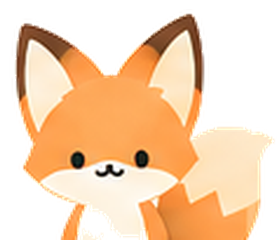
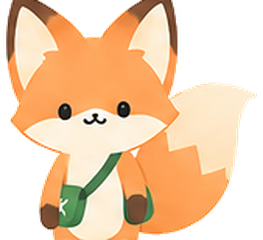
feat(ui): etend la mascotte Foxy (accueil, empty states) + planche v2
Nouvelle planche de reference consolidee (docs/brand/foxy_pose.png,
24 poses avec le sac K, comparee a un upscale x4 juge inutile a la
taille d'export utilisee) :

- Salut/accueil sur toutes les pages invite (login, mdp oublie/reset)
- Icone par defaut de .empty-state (boite vide) sur ~25 emplacements
  de l'app via un ::before CSS, sans toucher les vues existantes
- Variante cloche (.empty-state--bell) sur /notifications
- Re-export des poses 403/405/422/500/503/docs avec le sac, pour la
  coherence visuelle (404 reste sur l'ancienne planche, pose absente
  de la nouvelle)

mascot.md tient a jour l'inventaire complet (poses dispo non cablees,
et la pose "payslip" a corriger avant usage : texte japonais fige
dans le dessin).

Claude-Session: https://claude.ai/code/session_01HfwAgwAgeks5rZMgCdWDV8

diff --git a/public/assets/css/src/base.css b/public/assets/css/src/base.css
@@ -319,6 +319,13 @@ img {
     margin-bottom: var(--space-8);
 }
 
+.guest-brand__mascot {
+    display: block;
+    width: 96px;
+    height: auto;
+    margin: 0 auto var(--space-2);
+}
+
 .guest-brand h1 {
     font-size: 2rem;
     font-weight: 700;
@@ -377,6 +384,19 @@ img {
     text-align: center;
     color: var(--color-text-muted);
     font-size: var(--text-sm);
+}
+
+.empty-state::before {
+    content: '';
+    display: block;
+    width: 88px;
+    height: 88px;
+    margin: 0 auto var(--space-2);
+    background: url('../../img/mascot/box-empty.png') center / contain no-repeat;
+}
+
+.empty-state--bell::before {
+    background-image: url('../../img/mascot/bell.png');
 }
 
 .empty-state__icon {

diff --git a/src/UI/View/layout/guest.php b/src/UI/View/layout/guest.php
@@ -10,6 +10,7 @@
 <body class="guest-layout">
     <div class="guest-container">
         <div class="guest-brand">
+            <img src="<?= $BASE_URL ?>/assets/img/mascot/wave-hello.png" alt="<?= __('mascot_alt') ?>" class="guest-brand__mascot">
             <h1>Kintai</h1>
             <?php if (!empty($app_subtitle)): ?>
                 <p class="guest-brand__company"><?= htmlspecialchars($app_subtitle, ENT_QUOTES) ?></p>

diff --git a/src/UI/View/notifications/index.php b/src/UI/View/notifications/index.php
@@ -57,7 +57,7 @@ $typeIcons = [
 </div>
 
 <?php if (empty($notifications)): ?>
-    <div class="empty-state">
+    <div class="empty-state empty-state--bell">
         <p><?= __('no_notifications') ?></p>
     </div>
 <?php else: ?>

diff --git a/docs/brand/mascot.md b/docs/brand/mascot.md
@@ -1,76 +1,101 @@
 # Mascotte Foxy — inventaire des poses
 
 Ce document liste les poses de Foxy (la mascotte de Kintai) déjà intégrées à
-l'application, celles disponibles dans la planche de référence mais pas
-encore utilisées, et celles qu'il faudrait faire dessiner en plus. Il sert de
-référence pour la prochaine série d'intégrations.
+l'application, celles disponibles mais pas encore utilisées, et les
+éventuels manques restants.
 
-Planche de référence source : `docs/brand/foxy-style-guide.png` (ne pas
-utiliser directement dans l'app — c'est un document de travail, pas un
-asset). Chaque pose utilisée en est extraite, détourée (fond transparent) et
-exportée en PNG dans `public/assets/img/mascot/`, hauteur standard 240px.
+## Sources
 
-## 1. Poses déjà intégrées
+Deux planches de référence coexistent (documents de travail, à ne jamais
+utiliser directement dans l'app — chaque pose utilisée en est extraite,
+détourée et exportée en PNG dans `public/assets/img/mascot/`) :
 
-| Pose (planche) | Fichier exporté | Contexte d'usage | Pourquoi ce choix |
+- `docs/brand/foxy-style-guide.png` — planche d'origine (15 poses + 9
+  expressions seules, visage rond sans corps). Foxy n'y porte pas encore le
+  sac "K". C'est la **seule source** pour les 9 expressions seules.
+- `docs/brand/foxy_pose.png` — planche consolidée (24 poses, grille 6×4),
+  générée à partir des demandes de la section 3 de la v1 de ce document.
+  Foxy y porte systématiquement le petit sac banane vert "K", plus
+  cohérent visuellement. **Source à privilégier** pour toute pose qui y
+  figure — y compris pour ré-exporter une pose déjà utilisée depuis
+  l'ancienne planche, par cohérence visuelle.
+  - Un upscale ×4 de cette planche a été généré puis comparé à l'original :
+    qualité inégale (linework plus net sur certaines cases, mais formes
+    légèrement déformées sur d'autres, ex. l'oreille/la bandoulière de la
+    pose 16). Comme la taille d'export cible (240px de haut) est inférieure
+    à la résolution native de la planche, l'upscale n'apporte rien et a été
+    écarté — on découpe directement depuis `foxy_pose.png`.
+
+## 1. Poses intégrées
+
+| Pose | Source | Fichier exporté | Contexte d'usage |
 |---|---|---|---|
-| 考える (réfléchit, "?") | `error-404.png` | Page 404 | Il cherche la page, comme l'utilisateur |
-| びっくり (surpris, "!!") | `error-403.png` | Page 403 | Réaction d'alerte face à un accès refusé |
-| 待機・通常 (neutre) | `error-405.png` | Page 405 | Cas rare et neutre, pas besoin de dramatiser |
-| 振り返る (se retourne) | `error-422.png` | Page 422 | Invite à revérifier ce qui a été saisi |
-| がっかり (déçu) | `error-500.png` | Page 500 | Erreur serveur, on partage la déception |
-| 寝る (dort) | `error-503.png` | Page 503 (maintenance) | Le site "dort" pendant la maintenance |
-| スマホを見る (regarde son téléphone/l'app) | `docs-hero.png` | Sidebar wiki + page "wiki non cloné" (`/docs`) | Il consulte l'app, comme l'utilisateur qui lit la doc |
+| 考える (réfléchit, "?") | style-guide (v1) | `error-404.png` | Page 404 — absente de la planche consolidée, donc toujours issue de l'ancienne planche (sans le sac) |
+| びっくり (surpris, "!!") | foxy_pose #1 | `error-403.png` | Page 403 |
+| 待機・通常 (neutre) | foxy_pose #2 | `error-405.png` | Page 405 |
+| 振り返る (se retourne) | foxy_pose #3 | `error-422.png` | Page 422 |
+| がっかり (déçu) | foxy_pose #4 | `error-500.png` | Page 500 |
+| 寝る (dort) | foxy_pose #5 | `error-503.png` | Page 503 (maintenance) |
+| スマホを見る (regarde son téléphone) | foxy_pose #6 | `docs-hero.png` | Sidebar wiki + page "wiki non cloné" (`/docs`) |
+| Salut / accueil | foxy_pose #16 | `wave-hello.png` | Bandeau des pages invité (`layout/guest.php` : login, mot de passe oublié, réinitialisation) |
+| ボックス (空) | foxy_pose #18 | `box-empty.png` | Icône par défaut de **tout** `.empty-state` (CSS `::before`) — couvre ~25 emplacements dans l'app (dashboard, plannings, demandes, messages, rapports...) sans toucher aux vues |
+| 通知・ベル | foxy_pose #22 | `bell.png` | Variante `.empty-state--bell`, utilisée sur `/notifications` quand la liste est vide |
 
-## 2. Poses disponibles dans la planche, pas encore utilisées
+## 2. Poses disponibles, pas encore utilisées
 
-Pas besoin de nouveau dessin pour celles-ci — juste les découper/détourer
-avec le même script (crop + flood-fill transparence depuis les bords, cf.
-processus utilisé pour la série actuelle).
+Déjà découpées/dessinées, juste pas encore câblées quelque part.
 
-| Pose (planche) | Description | Contexte suggéré |
+| Pose (foxy_pose) | Description | Contexte suggéré |
 |---|---|---|
-| 歩く (marche) | Démarche tranquille, de profil | Étapes d'un assistant/wizard (ex. installeur `public/install.php`), indicateur de progression |
-| 座る (assis, neutre) | Assis, calme, regarde devant lui | État vide neutre générique (ex. `EmptyState` : aucune notification, aucun message) |
-| 走る (court) | Course, mouvement | Traitement en cours (import Excel, sauvegarde, synchronisation du wiki) |
-| ジャンプ (saute) | Saut joyeux | Confirmation de succès après une action (shift créé, congé approuvé) |
-| のび (s'étire) | Étirement, réveil | Accueil sur le dashboard ("Bonjour" du matin), reprise après une pause |
-| 座って休憩 (assis, repos) | Assis, détendu, pattes croisées | Statut "en congé" (bundle TimeOff), jour sans shift |
-| 応援する (encourage, drapeau K) | Debout, agite un petit drapeau vert avec le logo K | Fin de l'assistant d'installation, objectif/jalon atteint dans les stats |
-| 嬉しい (content, cœurs) | Assis, visage joyeux, petits cœurs autour | Écran de remerciement (bundle Feedback), échange de shift accepté |
-| 応援 走る (encourage en courant) | Court en brandissant le drapeau K | Mise à jour de l'app en cours, sauvegarde en cours (variante plus dynamique que "走る") |
+| #7 歩く | Marche, de profil | Étapes d'un assistant/wizard (installeur), indicateur de progression |
+| #8 座る | Assis, neutre | État vide alternatif si on veut varier `box-empty` |
+| #9 走る | Course | Traitement en cours (import Excel, sauvegarde, sync du wiki) |
+| #10 ジャンプ | Saut joyeux | Confirmation de succès après une action (shift créé, congé approuvé) |
+| #11 のび | Étirement | Accueil dashboard ("Bonjour" du matin) |
+| #12 座って休憩 | Assis, détendu | Statut "en congé" (bundle TimeOff) |
+| #13 応援する | Encourage, petit drapeau K | Fin d'assistant d'installation, jalon atteint |
+| #14 嬉しい | Content, cœurs | Écran de remerciement (bundle Feedback), échange de shift accepté |
+| #15 応援・走る | Encourage en courant | Mise à jour / sauvegarde en cours (variante dynamique de #9) |
+| #17 検索（空） | Regarde une barre de recherche vide | "Aucun résultat" sur une liste avec recherche/filtre — pas encore câblé faute d'un point d'accroche CSS générique équivalent à `.empty-state` pour ce cas précis |
+| #19 タイムカード・時計 | Tient une horloge de pointage | Bundle Timeclock (confirmation de pointage) |
+| #21 ツール・メンテナンス | Clé à molette + boîte à outils | Page de mise à jour admin (`system/update.php`) pendant une mise à jour |
+| #23 祝う・節目 | Confettis, sifflet de fête | Jalon célébré (mise à jour réussie, sauvegarde terminée) |
+| #24 疲れてるけど立ってる | Debout, un peu fatigué | Alerte douce sur charge de travail (proche du max de jours consécutifs) |
 
-Les 9 expressions seules (visage rond, sans corps — 通常/normal, にっこり/sourire,
+Les 9 expressions seules de l'ancienne planche (通常/normal, にっこり/sourire,
 ウインク/clin d'œil, びっくり/surpris, 困る/embêté, 照れる/gêné, 怒る/fâché,
-悲しい/triste, ???/perplexe) sont utilisables telles quelles pour des contextes
-compacts : petite icône à côté d'un message toast, d'une erreur de validation
-de formulaire, ou d'un badge de notification — pas besoin de tout le corps.
+悲しい/triste, ???/perplexe) restent disponibles pour des contextes compacts
+(icône à côté d'un toast, d'une erreur de validation de formulaire).
 
-## 3. Poses à faire dessiner (n'existent pas dans la planche actuelle)
+## 3. Point d'attention — pose à corriger avant usage
 
-| Pose proposée | Description visuelle | Contexte d'usage | Priorité |
-|---|---|---|---|
-| Salut / accueil | Debout, une patte levée en signe de salut, sourire | Page de connexion (`auth/login.php`), message de bienvenue sur le dashboard | Haute |
-| Recherche vide | Assis, tient une petite loupe, hausse les épaules | "Aucun résultat" dans les listes avec recherche/filtre (staff, shifts, journal d'activité) | Haute |
-| Boîte vide | Regarde dans une boîte/panier ouvert et vide | État vide neutre pour listes de données (aucun shift cette semaine, aucun message) — à distinguer de "がっかり" (déçu), qui reste réservé aux erreurs | Haute |
-| Pointeuse / horloge | Tient un badge ou une horloge de pointage | Confirmation de pointage (bundle Timeclock), écran de clock-in/out | Moyenne |
-| Enveloppe de paie | Tient une enveloppe ou une pièce | Pages liées à la paie (Salary Report, fiche de paie estimée) | Moyenne |
-| Outils / maintenance | Tient une clé à molette ou un tournevis | Page de mise à jour admin (`system/update.php`) pendant une mise à jour — différent du 503 (public, "site en dodo") | Moyenne |
-| Cloche / notification | Tient ou regarde une clochette | Centre de notifications, vide ou avec nouveauté | Basse |
-| Fête / jalon | Petit chapeau de fête, confettis | Jalon célébré (ex. mise à jour réussie, sauvegarde terminée, premier mois d'utilisation) | Basse |
-| Fatigué mais debout | Debout, s'essuie le front, sourire un peu crispé | Alerte douce sur charge de travail (ex. proche du nombre max de jours consécutifs), à ne pas confondre avec une erreur | Basse |
+- **#20 給与明細 (payslip)** : le renard tient une feuille où est écrit
+  "給与" (japonais, "salaire") directement dans le dessin — texte non
+  détachable du reste de l'illustration. Inutilisable tel quel sur une
+  interface fr/en sans regénérer la pose avec un papier vierge ou une icône
+  neutre à la place du texte. À refaire avant tout usage dans le bundle
+  Salary Report.
 
 ## Process technique (rappel)
 
-1. Recadrer la pose depuis `docs/brand/foxy-style-guide.png` (grille de la
-   section "ポーズバリエーション", 8 colonnes × 2 lignes).
-2. Exclure la légende japonaise du recadrage (elle n'est pas traduite et ne
-   doit pas apparaître dans l'app).
-3. Détourer le fond crème (`#FDFBF7` environ) par flood-fill **depuis les
-   bords uniquement** — un recadrage par différence de couleur simple rend
-   aussi transparentes les zones blanches du ventre/pattes du renard, ce qui
-   casse le rendu sur fond sombre.
-4. Exporter en PNG transparent, hauteur standard 240px, dans
+1. Repérer la grille de la planche source : `foxy-style-guide.png` = 8
+   colonnes × 2 lignes (légende **en dessous** de chaque pose) ;
+   `foxy_pose.png` = 6 colonnes × 4 lignes (légende **au-dessus**, à
+   exclure du recadrage — largeur de cellule fixe 256px, la légende occupe
+   les ~70 premiers pixels de hauteur de cellule).
+2. Détourer le fond par flood-fill **depuis les bords uniquement**, avec un
+   critère "clair et peu saturé" (`min(r,g,b) > 205` et écart max-min
+   `< 32`) plutôt qu'une simple distance à une couleur de fond fixe — la
+   planche consolidée mélange un fond de page blanc et un fond de carte
+   vert pâle légèrement différents. Un recadrage par différence de couleur
+   simple, ou un flood-fill qui ne part pas des bords, rend aussi
+   transparentes les zones blanches du ventre/pattes du renard.
+3. Exporter en PNG transparent, hauteur standard 240px, dans
    `public/assets/img/mascot/<contexte>.png`.
-5. Utiliser la clé de traduction `mascot_alt` (déjà présente en fr/en/ja)
+4. Utiliser la clé de traduction `mascot_alt` (déjà présente en fr/en/ja)
    pour l'attribut `alt`.
+5. Pour une icône réutilisée par un CSS `background: url(...)` (cas de
+   `.empty-state::before`), bien compter les niveaux de dossier depuis le
+   fichier CSS où la règle est écrite (`public/assets/css/src/base.css` →
+   `public/assets/img/...` = **deux** niveaux au-dessus, `../../img/...`),
+   pas depuis `app.css` qui l'importe.

diff --git a/CHANGELOG.md b/CHANGELOG.md
@@ -8,6 +8,7 @@ All notable changes to Kintai are documented here.
 
 ### Added
 - Foxy, the Kintai mascot, now illustrates the error pages (403/404/405/422/500/503) and the in-app documentation (wiki sidebar and the "not cloned locally" placeholder) — one pose per context (thinking for 404, startled for 403, sleeping for 503, disappointed for 500, etc.), cropped and made transparent from the original character sheet (kept for reference under `docs/brand/foxy-style-guide.png`).
+- Foxy also now waves hello on every guest page (login, forgot/reset password) and illustrates every generic empty state (`.empty-state`, ~25 spots app-wide) with a default "empty box" pose, swapped for a bell on the notifications page specifically — re-exported the 403/405/422/500/503/docs poses from a newer, more complete reference sheet (`docs/brand/foxy_pose.png`, 24 poses) so Foxy consistently carries its little "K" bag across all of them. See `docs/brand/mascot.md` for the full pose inventory and what's still available to wire up.
 
 ### Fixed
 - Daily reports — submitting a report for validation always returned a 500 (the report itself was created/updated fine, so a back-and-retry made it look like it worked): the `notifications` table on any instance created before the switch to the PHP migration system still had its old schema (`reference_id`/`body`/`is_read`, from the legacy `create_notifications_table.sql`), while `DatabaseNotificationRepository` writes to `data`/`read_at`. The migration meant to create that schema (`2026_06_09_000012`) exits early via `hasTable()`, so it never ran on those instances. Added `2026_09_09_000003_fix_notifications_schema` to convert the legacy schema to the current one in place, preserving existing notifications (including read/unread state).
